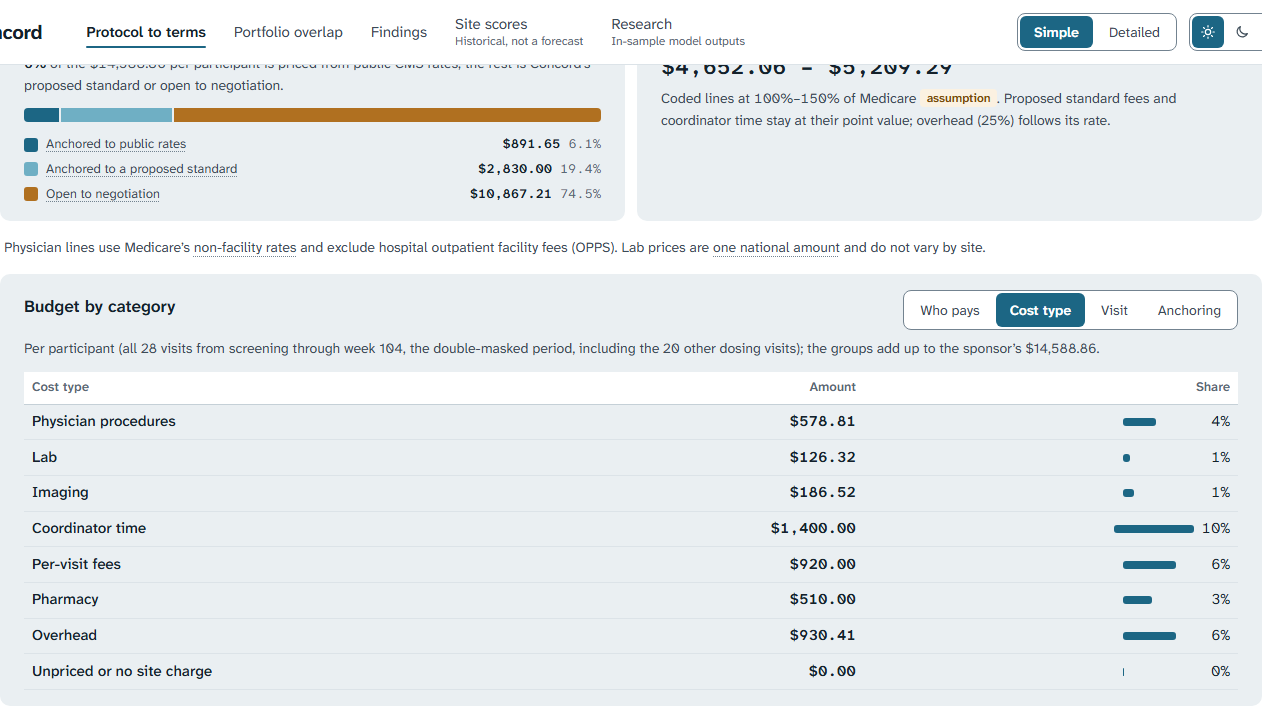
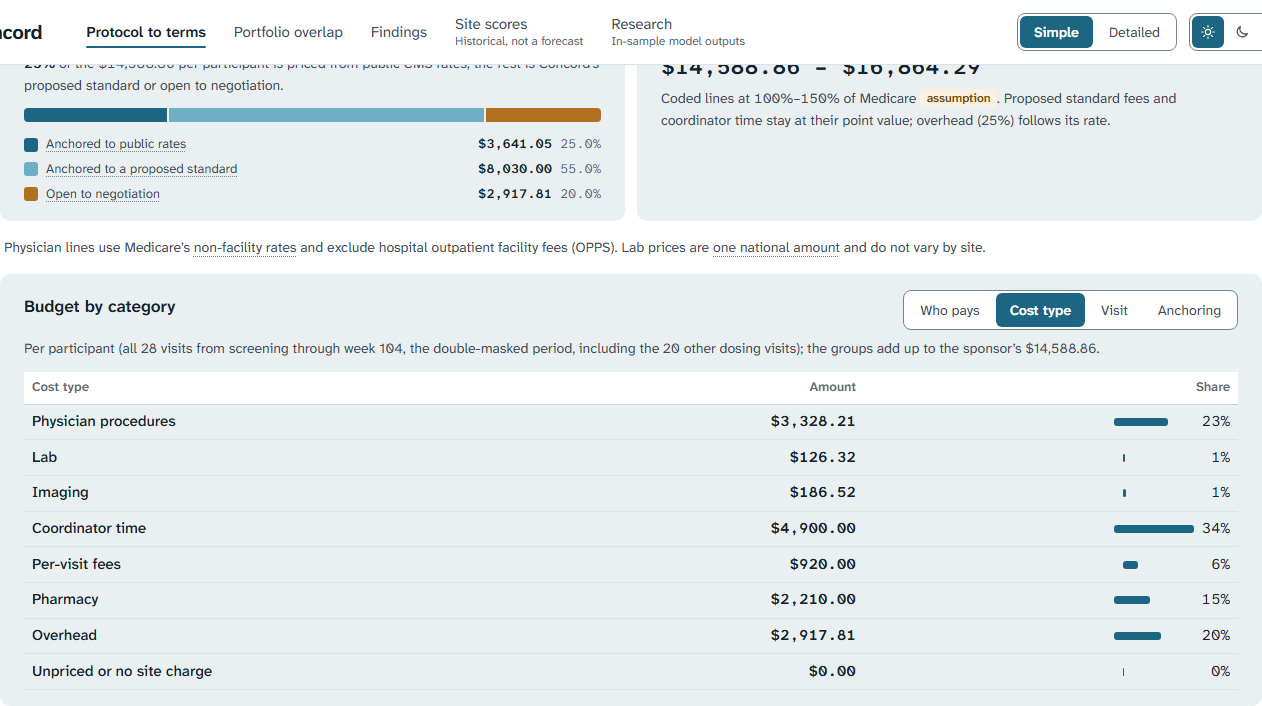
Docs: report on the mentor feedback (anchored share, spreads, sources, assumptions) with screenshots

diff --git a/docs/mentor-report-2026-10-17.md b/docs/mentor-report-2026-10-17.md
@@ -1,0 +1,82 @@
+# Report on the mentor feedback ("Protocol to Terms is the product"), 17 Oct 2026, 16:10-18:10
+
+All items below are on `main`, pushed, with backend tests (630 passed), the frontend build, the financial tests and a
+live-app browser check passing after each merge. Screenshots: `docs/handoff/screens/mentor/`.
+
+## Done
+
+| Item | Where | Screenshot |
+|---|---|---|
+| Scope 1: landing leads with Protocol to terms (exact headline and subhead), primary button opens Terms, overlap second with the Regeneron preset; nav order Protocol to terms, Portfolio overlap, What we tested | Landing | 01, 02 |
+| Mentor 13: Terms is the first tab; Financial Coordination (Sponsor budget) and Portfolio Command kept out of the main navigation | App header | 01 |
+| Scope 2: one non-lung Regeneron Phase 3, SIENNA (NCT06541704, pozelimab + cemdisiran in geographic atrophy), hand-authored from the public record, priced; sites from a static registry snapshot (no DB rebuild) | Terms | 08 |
+| Scope 3: one more indication, breast cancer, site overlap only (own DB file, 387 trials), labelled "site overlap only; eligibility overlap is available for lung cancer" | Portfolio overlap | 10 |
+| P1.1 anchored share (one bar + numbers) | Terms, Budget | 03 |
+| P1.2 ranges: procedure lines x a user-set band (default 100%-150%, assumption); totals low-high | Terms, Budget | 03 |
+| P1.3 site proposal check (paste/upload CSV, SYNTHETIC sample), P1.4 counter-proposal HTML export with a source on every line | Terms, Site proposal | 06, 07 |
+| P2.5 locality distribution (all 109 Medicare localities, sites marked with percentiles) | Terms, Compare | 04 |
+| P2.6 spread comparison (geography, multiplier band, non-procedure fees) | Terms, Compare | 04 |
+| P2.7 category breakdowns (who pays, cost type, visit, anchoring) | Terms, Budget | 03 |
+| P2.8 plain-language GPCI labels (Doctor's time; Practice costs (rent, staff, equipment); Malpractice insurance), technical terms in tooltips | Terms | 05 |
+| P3.9 overhead % editable, labelled an assumption | Terms, Budget | 03 |
+| P3.10 non-facility (office) rates stated; hospital outpatient facility fees (OPPS) not included | Terms, Budget | 03 |
+| P3.11 lab prices are one national CLFS amount and do not vary by site | Terms | 03 |
+| P3.12 two-site lead explains why budgets differ (Medicare's geographic adjustment), not which site is cheaper | Terms, Compare | 05 |
+
+## NCT05800015: anchored share and the three spreads
+
+Default Site A: NYU Langone Health Perlmutter Cancer Center, New York, NY (Medicare locality NY 01 Manhattan).
+Per-participant sponsor amount (screening through cycle 8, end of treatment and safety follow-up): **$6,568.67**.
+
+| Anchor | Amount | Share |
+|---|---|---|
+| Anchored to public rates (13 PFS lines $1,294.77 + 5 CLFS lines $45.18) | $1,339.95 | 20.4% |
+| Anchored to a proposed standard (per-visit fees $1,990 + coordinator time $1,925) | $3,915.00 | 59.6% |
+| Open to negotiation (overhead at 25%, an assumption) | $1,313.72 | 20.0% |
+
+Range at the 100%-150% band (assumption): $6,568.67 to $7,406.11 per participant.
+
+Spreads (per participant):
+
+| Driver | Low | High | Range | Basis |
+|---|---|---|---|---|
+| (a) Geography: procedure lines across all 109 localities at 100% of Medicare | $1,033.74 (AR-13 Arkansas) | $1,580.04 (CA-65 San Jose area) | $546.30 (p10-p90 $269.98; median $1,188.76) | CMS RVU26D GPCI2026; lab lines add a constant $45.18 |
+| (b) Multiplier band 100%-150% at Site A (Manhattan, 87th percentile) | $1,339.95 | $2,009.90 | $669.95 | assumption |
+| (b) Same at Site B (Hattiesburg Clinic, MS 00, 1st percentile) | $1,039.93 | $1,559.90 | $519.97 | assumption |
+| (c) Non-procedure fees (proposed standard $3,915) at 75%-125% | $2,936.25 | $4,893.75 | $1,957.50 | assumption: no public benchmark for these fees |
+
+## Sources used
+
+- CMS 2026 Physician Fee Schedule RVU file, October release (rvu26d.zip: PPRRVU2026_Oct_nonQPP.csv, non-facility PE RVU
+  column; GPCI2026.csv, all 109 localities), conversion factor $33.4009.
+- CMS Clinical Laboratory Fee Schedule CY 2026 Q4 (clfs_cy2026_q4v1.zip), national amounts.
+- Medicare NCD 310.1 (routine costs in clinical trials) for coverage labels.
+- ClinicalTrials.gov (registry facts, registered sites; API v2 for SIENNA's snapshot and the breast-cancer DB).
+
+## What could not be sourced (labelled as assumptions or left unpriced)
+
+- The 100%-150% multiplier band and the 75%-125% non-procedure band: user-set assumptions.
+- Overhead 25% and every proposed-standard amount ($175 coordinator per visit, $85 dispensing, $60 sample kit, $150
+  tissue, $100 image upload, $40 questionnaire, $75 survival contact, $18,000 per-site one-time fees): Concord's
+  proposal, labelled "a starting point to negotiate against, not market data".
+- The site proposal sample: SYNTHETIC prices, labelled as such everywhere.
+- SIENNA: vaccine products 90734, 90620, 90677 (no CMS amount: status E/X, zero RVUs) and three visual-function tests
+  with no CPT code are listed as unpriced, never counted as $0. 80 of its 153 U.S. sites have no resolved Medicare
+  locality (no public county basis added) and use national amounts, flagged.
+- Demo protocols are hand-authored from public information (illustrative), not sponsors' protocols.
+- Overlap preview: "recruiting on a date" uses an estimated enrollment window (65% of start-to-primary-completion,
+  an assumption); eligibility overlap is on a synthetic population.
+
+## Note on the requested $195.46 check (term-sheet line detail, in progress)
+
+For CPT 71260 the CMS 2026 files give **$191.25 at NY locality 01 Manhattan** and **$195.46 at NY locality 02 NYC
+Suburbs/Long Island** ((1.13 x 1.064 + 3.77 x 1.189 + 0.09 x 1.857) x $33.4009). $195.46 matches the second lung
+protocol's Site A in Westbury, NY (locality 02). The line-detail table being built reproduces both from the files and
+states the locality.
+
+## In progress at the end of the budget
+
+- Term-sheet line detail: the step-by-step price table (requested at 17:25).
+- Smooth step switching in Protocol to terms (real tabs with a soft fade).
+- "Any trial": add a trial by NCT ID; schedule from an uploaded SoA CSV or a cited draft from the registry.
+- Landing "How Concord compares" section from `docs/competitive-landscape.md`.
